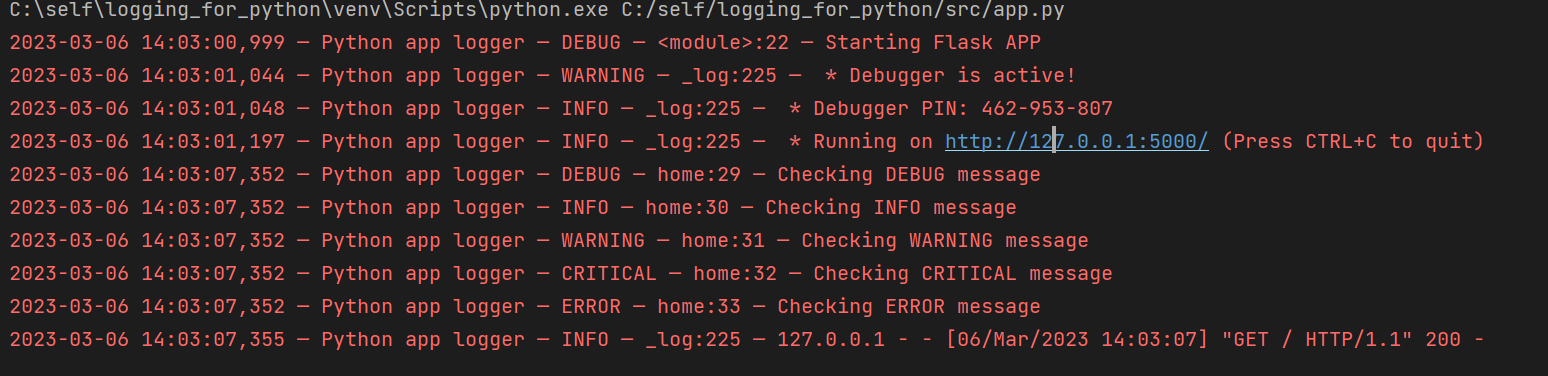
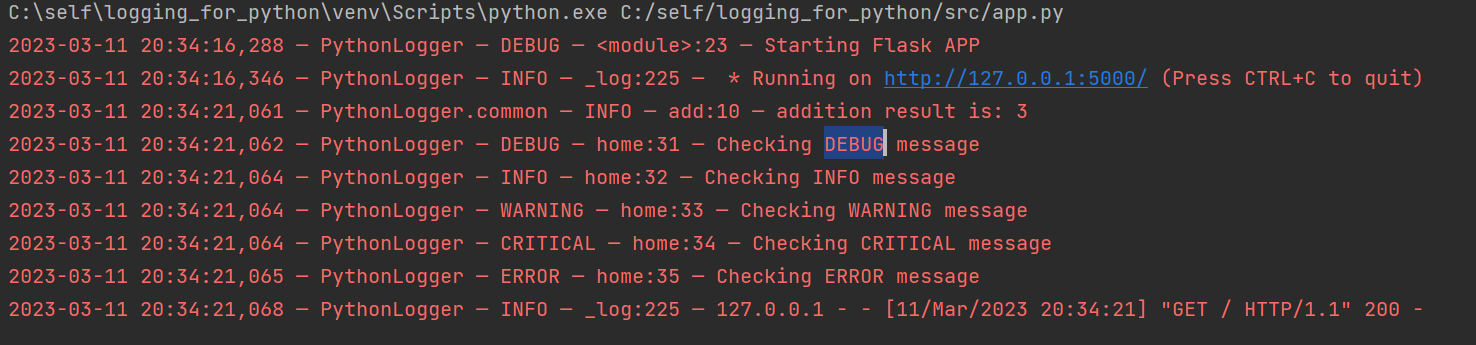
child logging is added for modules

diff --git a/src/app.py b/src/app.py
@@ -3,7 +3,7 @@ import logging
 import os
 from flask import Flask, request, render_template
 from utils.logging.custom_logging import CustomLogging
-logger = CustomLogging().app_logger('app', logging.DEBUG)
+logger = CustomLogging().app_logger('PythonLogger', logging.DEBUG)
 from common import add
 os.environ["WERKZEUG_RUN_MAIN"] = "true"  # removes message 'started serving APP'
 
